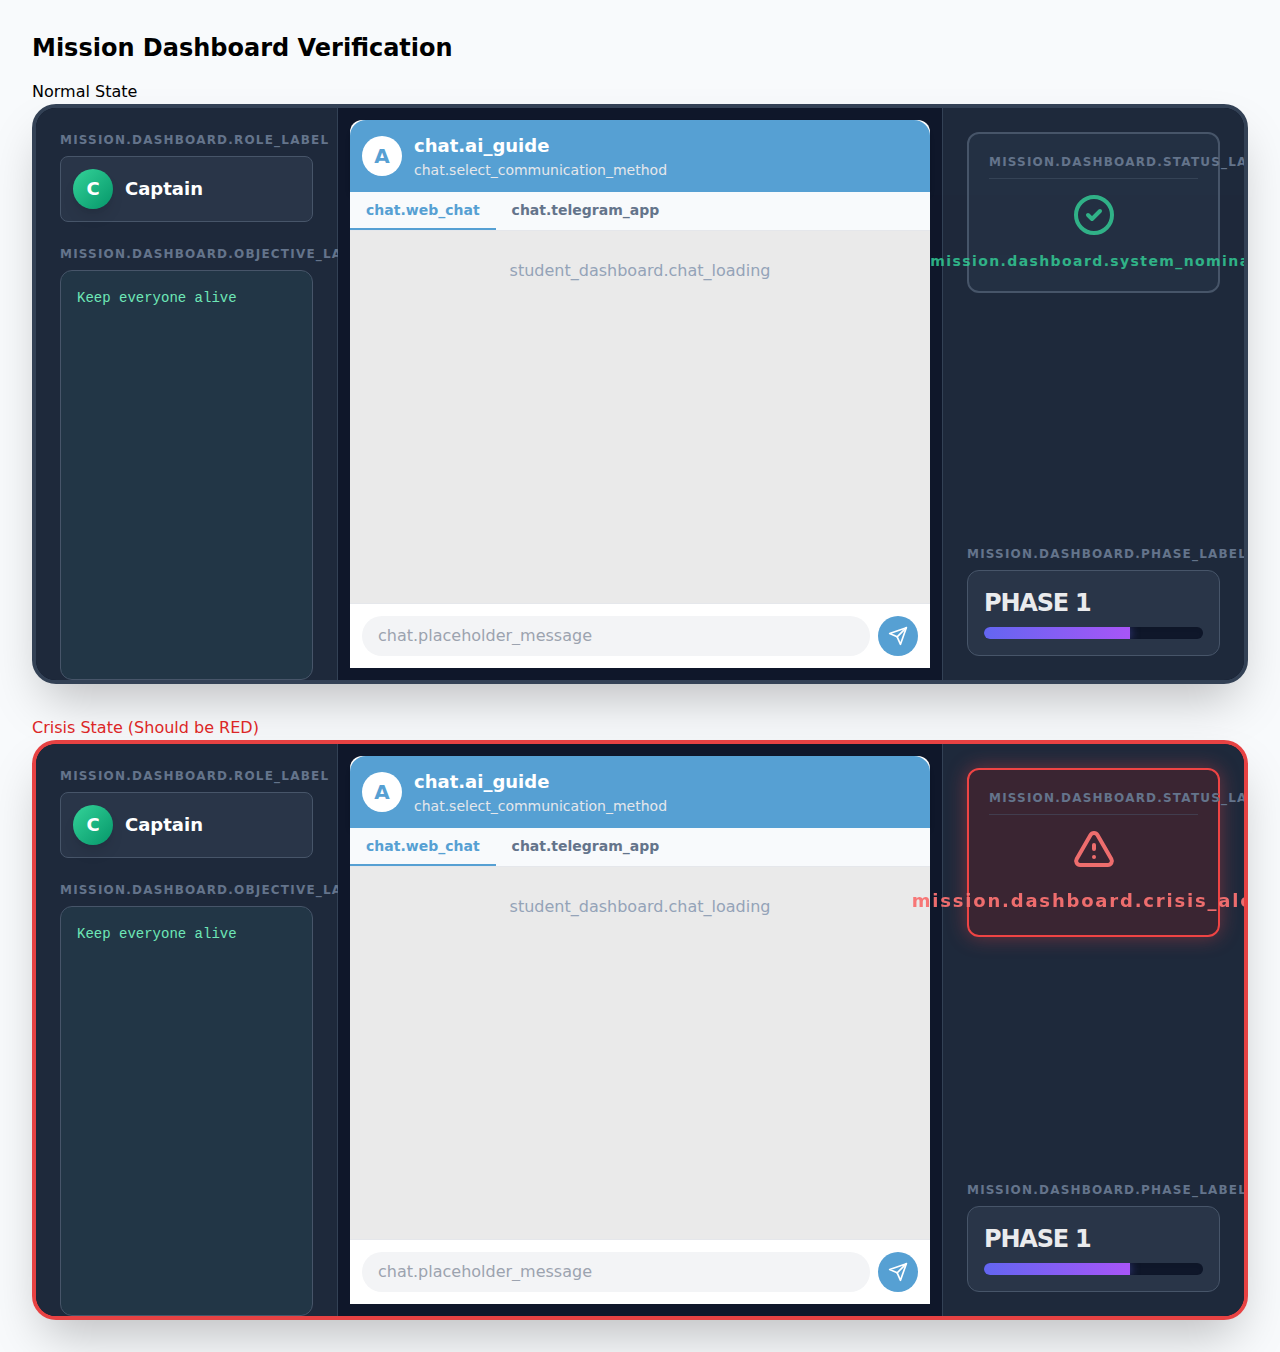
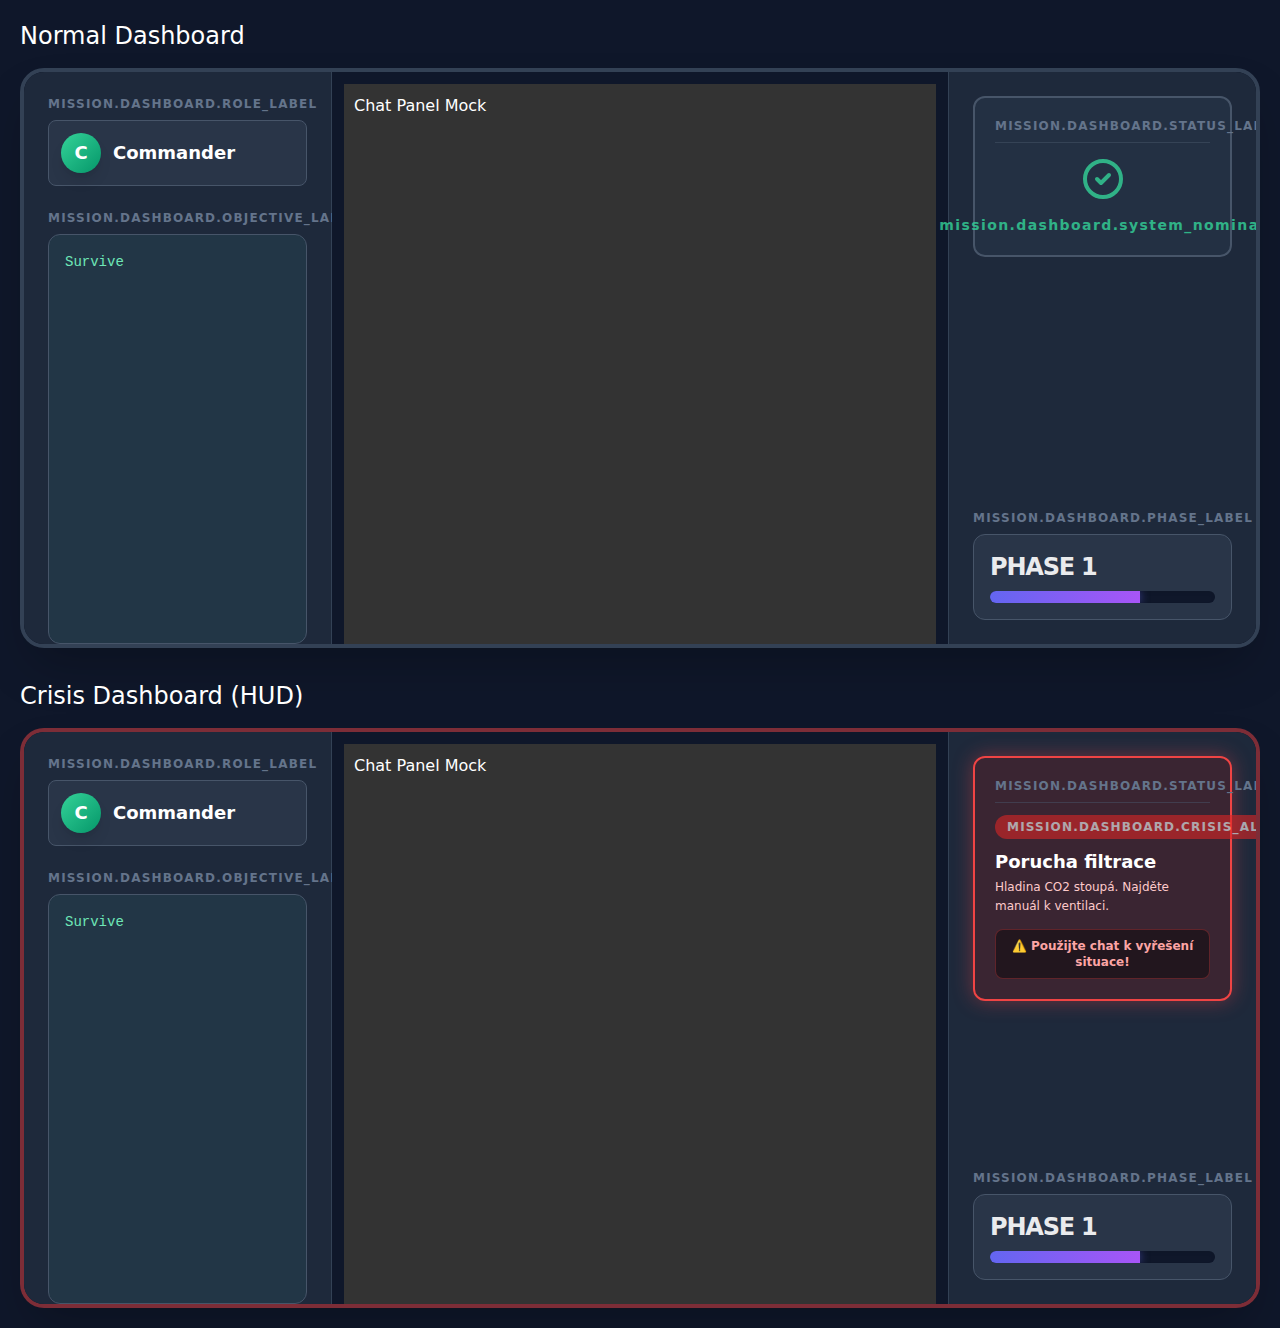
feat: Implement Crisis HUD and fix Professor Dashboard crisis list
- Update MissionDashboard to show crisis title, description, and call to action when a crisis is active.
- Update EditorViewMission to display crisis descriptions in the list of triggerable crises.
- Verified using Playwright with mocked components.

diff --git a/public/js/views/professor/editor/editor-view-mission.js b/public/js/views/professor/editor/editor-view-mission.js
@@ -437,12 +437,19 @@ export class EditorViewMission extends LitElement {
                                     <button
                                         @click=${() => this._handleTriggerCrisis(m.title)}
                                         ?disabled=${this._isCrisisTriggering}
-                                        class="w-full text-left px-3 py-2 rounded-lg hover:bg-red-50 text-slate-600 hover:text-red-700 text-sm transition-colors border border-transparent hover:border-red-100 group flex items-center gap-2">
-                                        ${this._isCrisisTriggering && this._triggeringCrisisTitle === m.title
-                                            ? html`<span class="animate-spin h-4 w-4 border-2 border-red-500 border-t-transparent rounded-full"></span>`
-                                            : html`<span class="font-medium group-hover:underline">⚠ ${t('mission.crisis_trigger')}:</span>`
-                                        }
-                                        <span class="opacity-75">${m.title}</span>
+                                        class="w-full text-left px-3 py-3 rounded-lg hover:bg-red-50 text-slate-600 hover:text-red-700 text-sm transition-colors border border-transparent hover:border-red-100 group flex flex-col items-start gap-1">
+                                        <div class="flex items-center gap-2 w-full">
+                                            ${this._isCrisisTriggering && this._triggeringCrisisTitle === m.title
+                                                ? html`<span class="animate-spin h-4 w-4 border-2 border-red-500 border-t-transparent rounded-full flex-shrink-0"></span>`
+                                                : html`<span class="font-medium group-hover:underline flex-shrink-0">⚠ ${t('mission.crisis_trigger')}:</span>`
+                                            }
+                                            <span class="font-bold">${m.title}</span>
+                                        </div>
+                                        ${m.description ? html`
+                                            <p class="text-xs text-slate-500 pl-6 group-hover:text-red-600/80 line-clamp-2">
+                                                ${m.description}
+                                            </p>
+                                        ` : ''}
                                     </button>
                                 `)}
                              </div>

diff --git a/public/js/views/student/mission-dashboard.js b/public/js/views/student/mission-dashboard.js
@@ -93,9 +93,25 @@ export class MissionDashboard extends LitElement {
                         <h3 class="text-xs uppercase tracking-widest text-slate-500 font-bold mb-3 border-b border-slate-600/50 pb-2">${translationService.t('mission.dashboard.status_label')}</h3>
 
                         ${isCrisisActive ? html`
-                            <div class="flex flex-col items-center text-center gap-2 text-red-400 font-bold animate-pulse">
-                                <svg class="w-12 h-12 mb-1" fill="none" stroke="currentColor" viewBox="0 0 24 24"><path stroke-linecap="round" stroke-linejoin="round" stroke-width="2" d="M12 9v2m0 4h.01m-6.938 4h13.856c1.54 0 2.502-1.667 1.732-3L13.732 4c-.77-1.333-2.694-1.333-3.464 0L3.34 16c-.77 1.333.192 3 1.732 3z"></path></svg>
-                                <span class="text-lg tracking-widest">${translationService.t('mission.dashboard.crisis_alert')}</span>
+                            <div class="flex flex-col gap-3 animate-in fade-in zoom-in duration-300">
+                                <div class="bg-red-600 text-white px-3 py-1 rounded-full text-xs font-black uppercase tracking-widest self-start animate-pulse">
+                                    ${translationService.t('mission.dashboard.crisis_alert')}
+                                </div>
+
+                                <div>
+                                    <h4 class="text-lg font-black text-white leading-tight mb-1">
+                                        ${this.activeCrisis?.title || 'Unknown Crisis'}
+                                    </h4>
+                                    <p class="text-xs text-red-200 font-medium leading-relaxed">
+                                        ${this.activeCrisis?.description || 'No briefing available.'}
+                                    </p>
+                                </div>
+
+                                <div class="bg-black/40 rounded-lg p-2 border border-red-500/30">
+                                    <p class="text-xs text-red-300 font-bold text-center">
+                                        ⚠ Použijte chat k vyřešení situace!
+                                    </p>
+                                </div>
                             </div>
                         ` : html`
                             <div class="flex flex-col items-center text-center gap-2 text-emerald-400 font-bold opacity-80">

diff --git a/verification/verify_dashboard.py b/verification/verify_dashboard.py
@@ -10,19 +10,22 @@ def verify_dashboard():
         page.goto("http://localhost:3000/verify_dashboard.html")
 
         # Wait for the dashboards to render
-        # We look for the mission-dashboard-container
-        page.wait_for_selector(".mission-dashboard-container")
+        page.wait_for_selector("mission-dashboard")
 
-        # Check Normal Dashboard
-        # It should contain border-slate-700
-        normal_dashboard = page.locator("mission-dashboard").nth(0).locator(".mission-dashboard-container")
-        expect(normal_dashboard).to_have_class(re.compile(r"border-slate-700"))
+        # Allow some time for LitElement to update
+        page.wait_for_timeout(1000)
 
         # Check Crisis Dashboard
-        # It should contain border-red-500
-        crisis_dashboard = page.locator("mission-dashboard").nth(1).locator(".mission-dashboard-container")
-        expect(crisis_dashboard).to_have_class(re.compile(r"border-red-500"))
-        expect(crisis_dashboard).to_have_class(re.compile(r"animate-pulse-border"))
+        crisis_dashboard_host = page.locator("#crisis")
+
+        # Check for Title
+        expect(crisis_dashboard_host.locator("h4")).to_contain_text("Porucha filtrace")
+
+        # Check for Description
+        expect(crisis_dashboard_host.locator("p", has_text="Hladina CO2")).to_be_visible()
+
+        # Check for Call to Action
+        expect(crisis_dashboard_host.locator("text=Použijte chat k vyřešení situace!")).to_be_visible()
 
         # Take screenshot
         page.screenshot(path="verification/verification.png", full_page=True)

diff --git a/verification/verify_editor.py b/verification/verify_editor.py
@@ -1,0 +1,31 @@
+from playwright.sync_api import sync_playwright, expect
+import re
+
+def verify_editor():
+    with sync_playwright() as p:
+        browser = p.chromium.launch(headless=True)
+        page = browser.new_page()
+
+        # Go to the verification page served by the local server
+        page.goto("http://localhost:3000/verify_editor.html")
+
+        # Wait for the editor to render
+        page.wait_for_selector("editor-view-mission")
+
+        # Allow some time for LitElement to update
+        page.wait_for_timeout(1000)
+
+        # Check for Milestones
+        editor_host = page.locator("#editor")
+
+        # Check that descriptions are visible
+        expect(editor_host.locator("text=Description 1")).to_be_visible()
+        expect(editor_host.locator("text=Description 2")).to_be_visible()
+
+        # Take screenshot
+        page.screenshot(path="verification/verification_editor.png", full_page=True)
+
+        browser.close()
+
+if __name__ == "__main__":
+    verify_editor()
